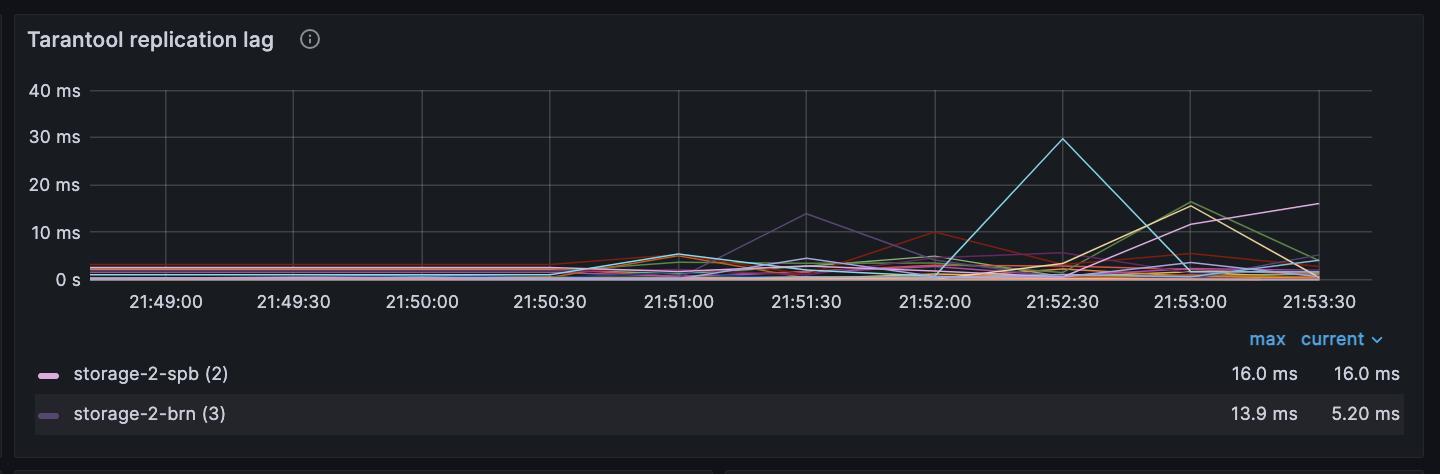
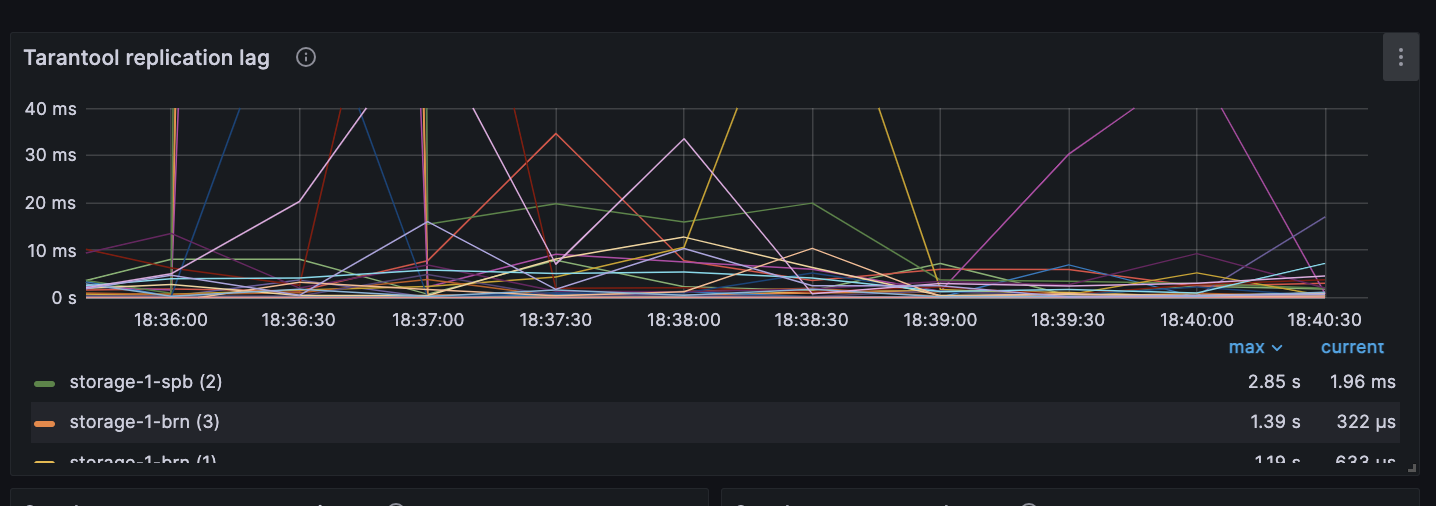
Правки в примере

diff --git a/examples/sync_replication/sync_replication.md b/examples/sync_replication/sync_replication.md
@@ -128,12 +128,15 @@ go run -tags go_tarantool_ssl_disable main.go target=sync
 
 Теперь обратим внимание на график `Tarantool replication lag`:
 
+(Для наглядности размер оси Y выставлен до 40ms)
+
 Можно заметить небольшое расхождение при синхронной репликации
-![](./images/replication_lag_sync2.png)
-Как можно заметить значение подскачило до 130ms. Синхронная репликация чуть медленнее отрабатывает. Это связано с тем, что ко времени коммита прибавляется replication_lag.
+![](./images/replication_lag_sync.png)
+Как можно заметить фоновое значение колеблется в пределах 40ms. Синхронная репликация чуть медленнее отрабатывает. Это связано с тем, что ко времени коммита прибавляется replication_lag.
 
 Но если запустить запись в асинхронный спейс, можно заметить, что лаг стал чуть меньше:
 ![](./images/replication_lag_async.png)
+Его фон не превышает 10ms.
 
 В клиентском приложении есть константа `STREAMS = 120`. При увеличении количества потоков увеличится и нагрузка, а как следствие увеличится расхождение по replication_lag.
 
